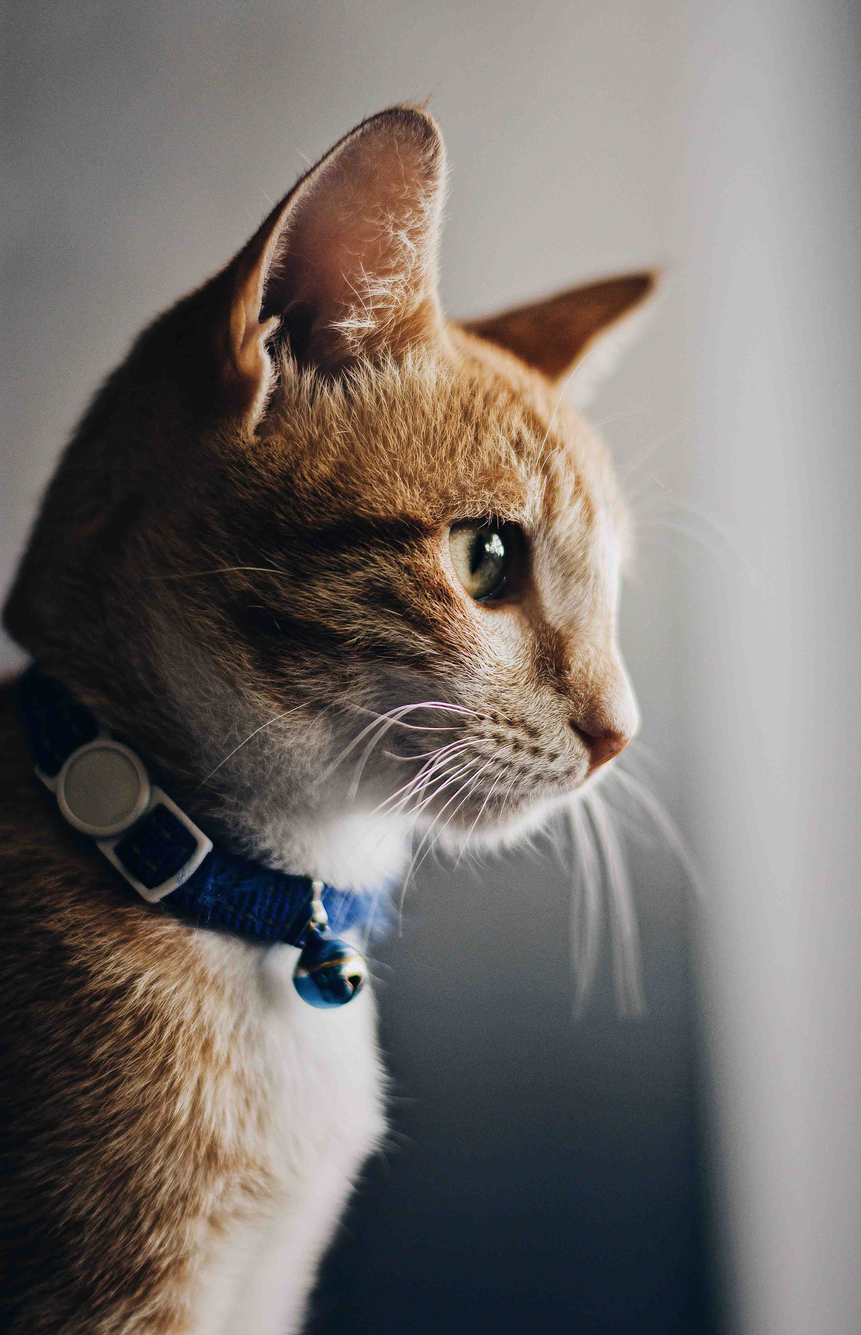
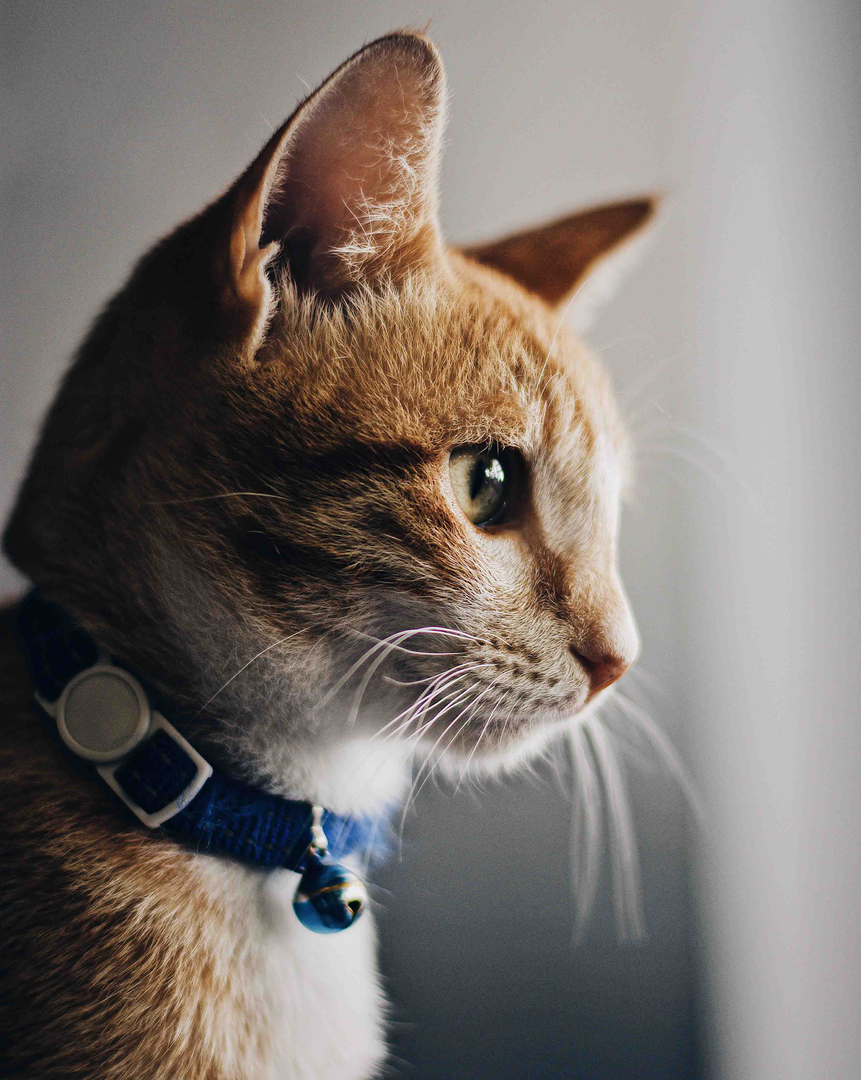
added code in the styles.css for the header section. Updated also the code of index.html accordingly. Added another .jpg file in the /images folder.

diff --git a/styles.css b/styles.css
@@ -1,8 +1,90 @@
 @import url('https://fonts.googleapis.com/css2?family=Poppins:wght@400;500;700&display=swap');
 
+/* general styles */
 * {
+  margin: 0;
+  padding: 0;
   font-family: Roboto;
+}
+
+/* header section */
+.header {
+  background-color: #1f2937;
+  color: #f9faf8;
+
+  padding: 20px 150px;
+}
+/* top */
+.top {
+  display: flex;
+  justify-content: space-between;
+  align-items: center;
+
+  /* background-color: pink; */
+}
+.logo {
+  font-size: 24px;
+  font-weight: bold;
+}
+ul {
+  display: flex;
+  gap: 15px;
+}
+
+ul li {
+  list-style: none;
+  transition: all 0.15s;
+}
+ul li:hover {
+  opacity: 0.7;
+}
+ul li:active {
+  opacity: 0.4;
+}
+li a {
+  text-decoration: none;
+  color: #e5e7eb;
+  font-size: 18px;
+}
+
+/* hero */
+.hero {
+  display: flex;
+  flex-direction: row;
+  justify-content: center;
+  align-items: center;
+  margin: 50px auto;
+  gap: 25px;
+}
+.hero-info h1 {
+  font-size: 48px;
+  line-height: 1;
+}
+.hero-info p {
+  color: #e5e7eb;
+  font-size: 18px;
+
+  margin-top: 10px;
 }
 .cat-1 {
   width: 300px;
+  border-radius: 4px;
+  box-shadow: 3px 3px 3px rgba(0, 0, 0, 0.15);
+}
+.sign-up {
+  margin-top: 12px;
+  padding: 5px 25px;
+  background-color: #3882f6;
+  font-size: 18px;
+  color: #f9faf8;
+  border: none;
+  border-radius: 8px;
+  cursor: pointer;
+  transition: all 0.15s;
+}
+.sign-up:hover {
+  opacity: 0.7;
+}
+.sign-up:active {
+  opacity: 0.4;
 }

diff --git a/index.html b/index.html
@@ -7,9 +7,9 @@
   </head>
   <body>
     <section class="header">
-      <div class="nav">
+      <div class="top">
         <div class="logo">kencat</div>
-        <ul>
+        <ul class="nav">
           <li><a href="#">Home</a></li>
           <li><a href="#">About</a></li>
           <li><a href="#">Services</a></li>
@@ -17,17 +17,18 @@
       </div>
 
       <div class="hero">
-        <div>
+        <div class="hero-info">
           <h1>Meet and Greet with interesting Cats nearby</h1>
           <p>
-            Cats have their very own personalities, and first impressions with
-            cats can be very important. You can make your first meeting very
-            positive and leave just the right impression on your new feline
-            friend.
+            First impressions with cats can be very important. You can make your
+            first meeting very positive and leave just the right impression on
+            your new feline friend.
           </p>
-          <button>Sign up</button>
+          <button class="sign-up">Sign up</button>
         </div>
-        <div><img class="cat-1" src="images/cat 1.jpg" alt="cat-image" /></div>
+        <div class="hero-img">
+          <img class="cat-1" src="images/cat-display.jpg" alt="cat-image" />
+        </div>
       </div>
     </section>
   </body>
